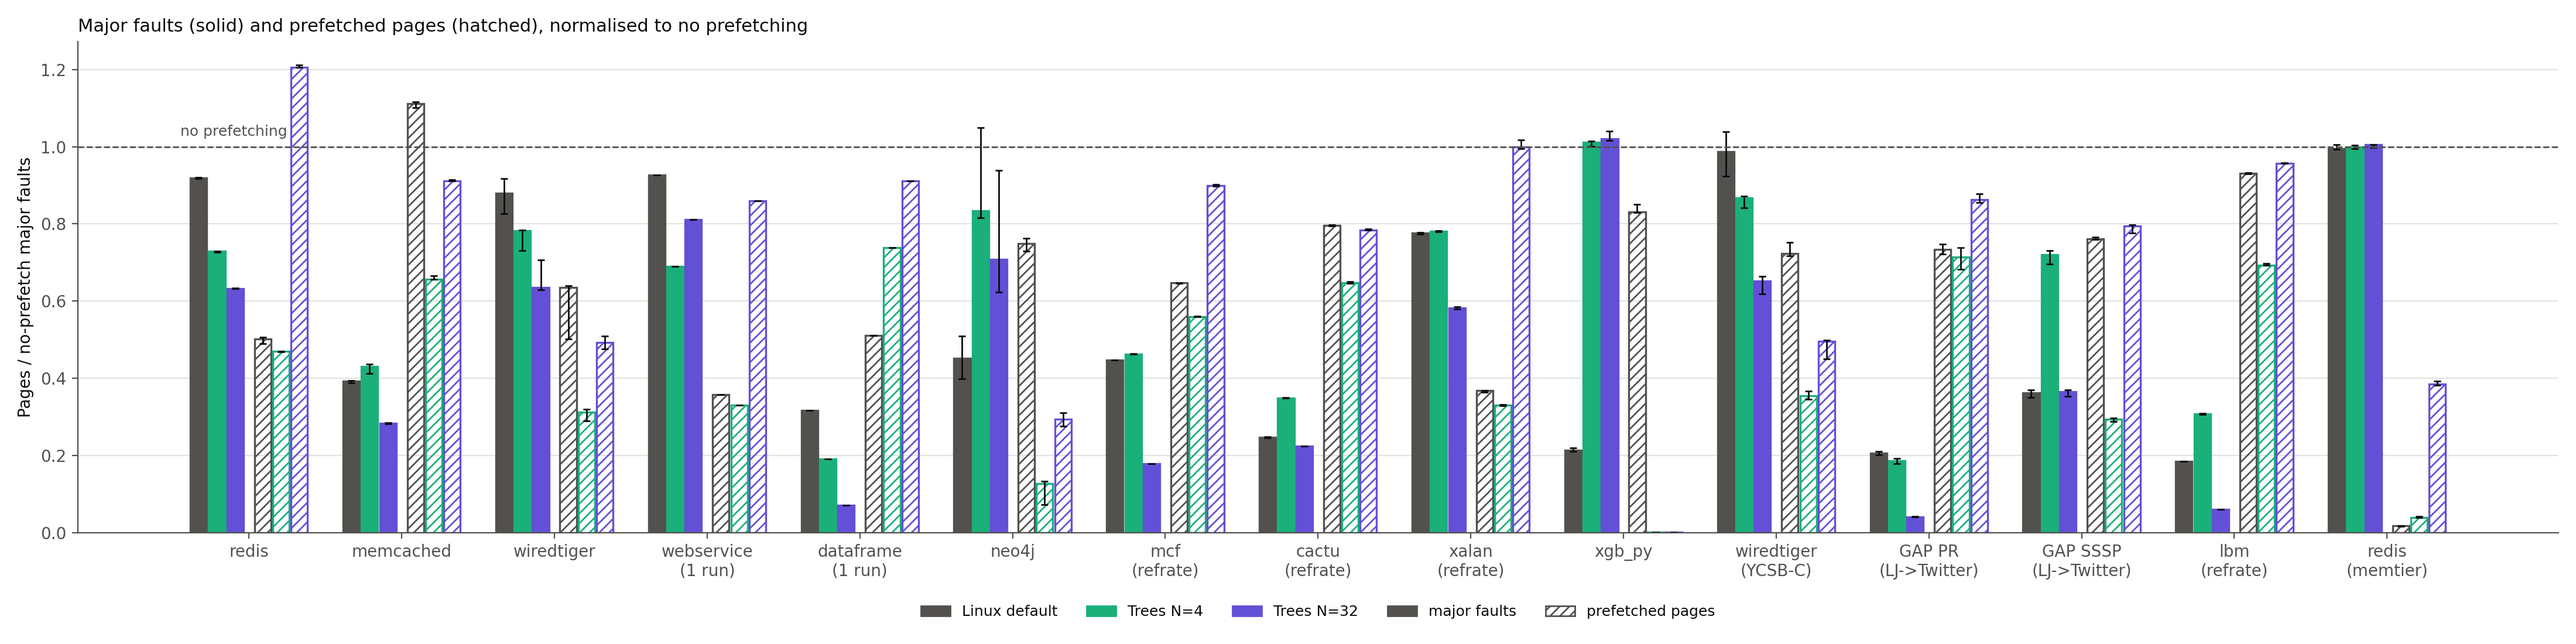
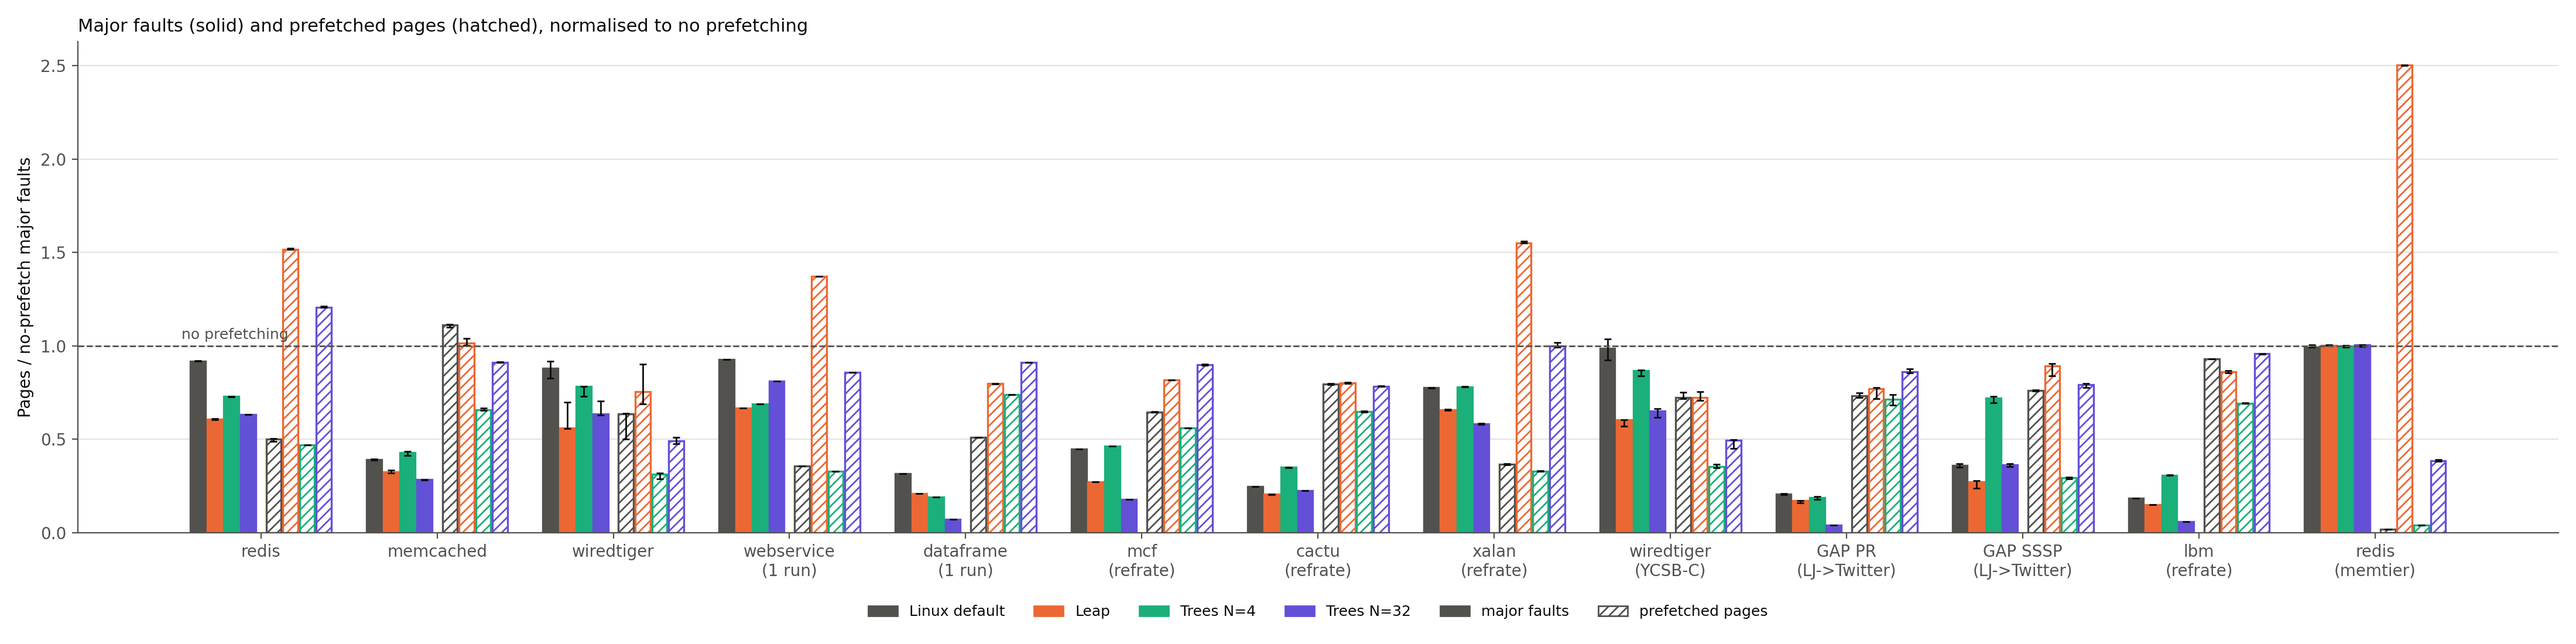
results/linux66: add Leap to the end-to-end and faults/prefetches figures
Leap (leapc, released-code window; 5 rounds on the current kernel build) is a
fourth bar next to Linux default and the N=4 / N=32 trees. neo4j and xgb_py are
dropped (not reported).

Changed region(s): [[0.0311, 0.0927, 0.9964, 0.8964], [0.3114, 0.9273, 0.685, 0.9582]]

diff --git a/results/linux66/plot.py b/results/linux66/plot.py
@@ -18,17 +18,20 @@ import matplotlib.pyplot as plt
 
 HERE = os.path.dirname(os.path.abspath(__file__))
 CSV = sys.argv[1] if len(sys.argv) > 1 else os.path.join(HERE, "results_all.csv")
-WORKLOADS = ["redis", "memcached", "wiredtiger", "webservice", "dataframe", "neo4j",
-             "mcf_ref", "cactu_ref", "xalan_ref", "xgb_py",
+# neo4j, xgb_py (and tao) are not reported
+WORKLOADS = ["redis", "memcached", "wiredtiger", "webservice", "dataframe",
+             "mcf_ref", "cactu_ref", "xalan_ref",
              "wt_c", "gap_pr", "gap_sssp", "lbm_ref", "memtier"]
 # workloads whose x label differs from the name; all of these test on different data than they trained on
 NAMES = {"wt_c": "wiredtiger\n(YCSB-C)", "gap_pr": "GAP PR\n(LJ->Twitter)",
          "gap_sssp": "GAP SSSP\n(LJ->Twitter)", "memtier": "redis\n(memtier)"}
 # SPEC: refrate input, trees trained on the train input only
 SAME_INPUT = set()
-CONFIGS = ["default", "n4_c0", "n32_c0"]   # claim-rule (c1) trees dropped
-LABELS = {"default": "Linux default", "n4_c0": "Trees N=4", "n32_c0": "Trees N=32"}
-COLORS = {"default": "#52514e", "n4_c1": "#2a78d6", "n4_c0": "#1baf7a",
+# claim-rule (c1) trees dropped. leapc = Leap (ATC'20) in the same module, released-code window; run on the
+# current kernel build (Nov 25-26, 2026), 5 rounds each, while the other configs are the October campaign
+CONFIGS = ["default", "leapc", "n4_c0", "n32_c0"]
+LABELS = {"default": "Linux default", "leapc": "Leap", "n4_c0": "Trees N=4", "n32_c0": "Trees N=32"}
+COLORS = {"default": "#52514e", "leapc": "#eb6834", "n4_c1": "#2a78d6", "n4_c0": "#1baf7a",
           "n32_c1": "#eb6834", "n32_c0": "#6250d6"}
 INK, INK2, GRID = "#0b0b0b", "#52514e", "#e4e3df"
 
@@ -65,7 +68,7 @@ EB = dict(ecolor=INK, elinewidth=1, capsize=2)
 
 # ---- figure 1: major faults and prefetched pages vs no prefetching ----
 fig, ax = plt.subplots(figsize=(22, 5.5))
-w, gap = 0.12, 0.06
+w, gap = 0.095, 0.05
 for i, wl in enumerate(WORKLOADS):
     base = np.median([float(r["majflt"]) for r in rows[wl, "noprefetch"]])
     for j, kind in enumerate(("majflt", "prefetched_pages")):
@@ -86,13 +89,13 @@ handles = [plt.Rectangle((0, 0), 1, 1, color=COLORS[c]) for c in CONFIGS]
 handles += [plt.Rectangle((0, 0), 1, 1, fc=INK2, ec=INK2),
             plt.Rectangle((0, 0), 1, 1, fill=False, ec=INK2, hatch="////")]
 ax.legend(handles, [LABELS[c] for c in CONFIGS] + ["major faults", "prefetched pages"],
-          ncol=5, frameon=False, loc="upper center", bbox_to_anchor=(0.5, -0.12), fontsize=9)
+          ncol=6, frameon=False, loc="upper center", bbox_to_anchor=(0.5, -0.12), fontsize=9)
 fig.tight_layout()
 fig.savefig(os.path.join(HERE, "fig_faults_prefetches.png"), dpi=200)
 
 # ---- figure 2: performance normalised to no prefetching, >1 = better ----
 fig, ax = plt.subplots(figsize=(20, 5))
-w = 0.22
+w = 0.19
 for i, wl in enumerate(WORKLOADS):
     base = np.median([float(r["metric"]) for r in rows[wl, "noprefetch"]])
     lower = rows[wl, "noprefetch"][0]["better"] == "lower"
@@ -111,7 +114,7 @@ ax.set_title("End-to-end performance normalised to no prefetching", loc="left", 
 style(ax)
 ax.legend([plt.Rectangle((0, 0), 1, 1, color=COLORS[c]) for c in CONFIGS]
           + [plt.Line2D([0], [0], color=INK2, lw=1, ls="--")],
-          [LABELS[c] for c in CONFIGS] + ["no prefetching (= 1)"], ncol=4, frameon=False, loc="upper center",
+          [LABELS[c] for c in CONFIGS] + ["no prefetching (= 1)"], ncol=5, frameon=False, loc="upper center",
           bbox_to_anchor=(0.5, -0.2), fontsize=9)
 fig.tight_layout()
 fig.savefig(os.path.join(HERE, "fig_performance.png"), dpi=200)
